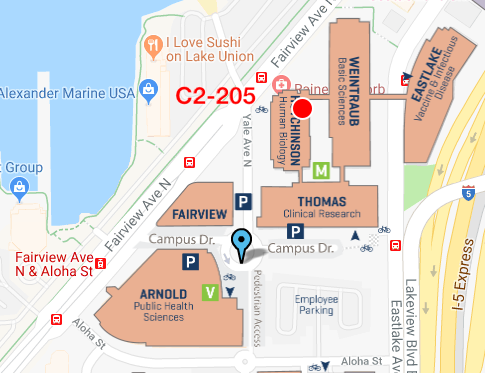
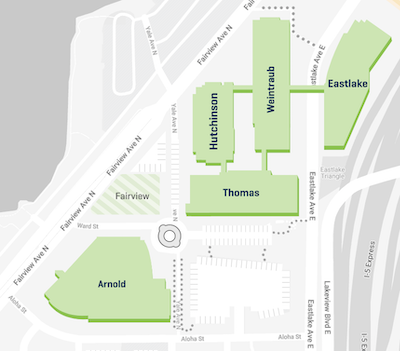
Update contact info

diff --git a/misc/_posts/2013-10-25-contact.md b/misc/_posts/2013-10-25-contact.md
@@ -3,20 +3,18 @@ layout: misc
 title: Contact
 ---
 
-<!-- <a href="http://g.co/maps/ty32r"><img class="pull-right" src="/images/fhcrc-campus.png"/></a> -->
+<a href="https://www.fredhutch.org/en/about/contact-us/campus-map.html">
+	<img class="pull-right" src="/images/fhcrc-campus.png"/>
+</a>
 
 <address>
 	Fred Hutch<br>
-	<!-- Hutchinson Building<br>
-	Room C2-205<br>   -->
 	1100 Fairview Ave N<br>
 	Seattle, WA 98109<br>
-	<!-- Email: trevor<span style="display:none">obfuscate</span>@bedford.io<br>
-	Lab: (206) 667-6372
-	Office: (206) 667-4180 -->
-	<!-- Mailstop: C2-023 -->
-	<p>&nbsp;<br>
-	For media inquiries, please contact the Fred Hutch communications team at media@fredhutch.org
-	<p>&nbsp;<br>
-	<img class="pull-left" src="/images/fhcrc-logo.png">  
+	Email: tb<span style="display:none">obfuscate</span>@bedford.io
 </address>
+
+<p>&nbsp;<br>
+For media inquiries, please contact the Fred Hutch communications team at media@fredhutch.org
+<p>&nbsp;<br>
+<img class="pull-left" src="/images/fhcrc-logo.png"/>  
